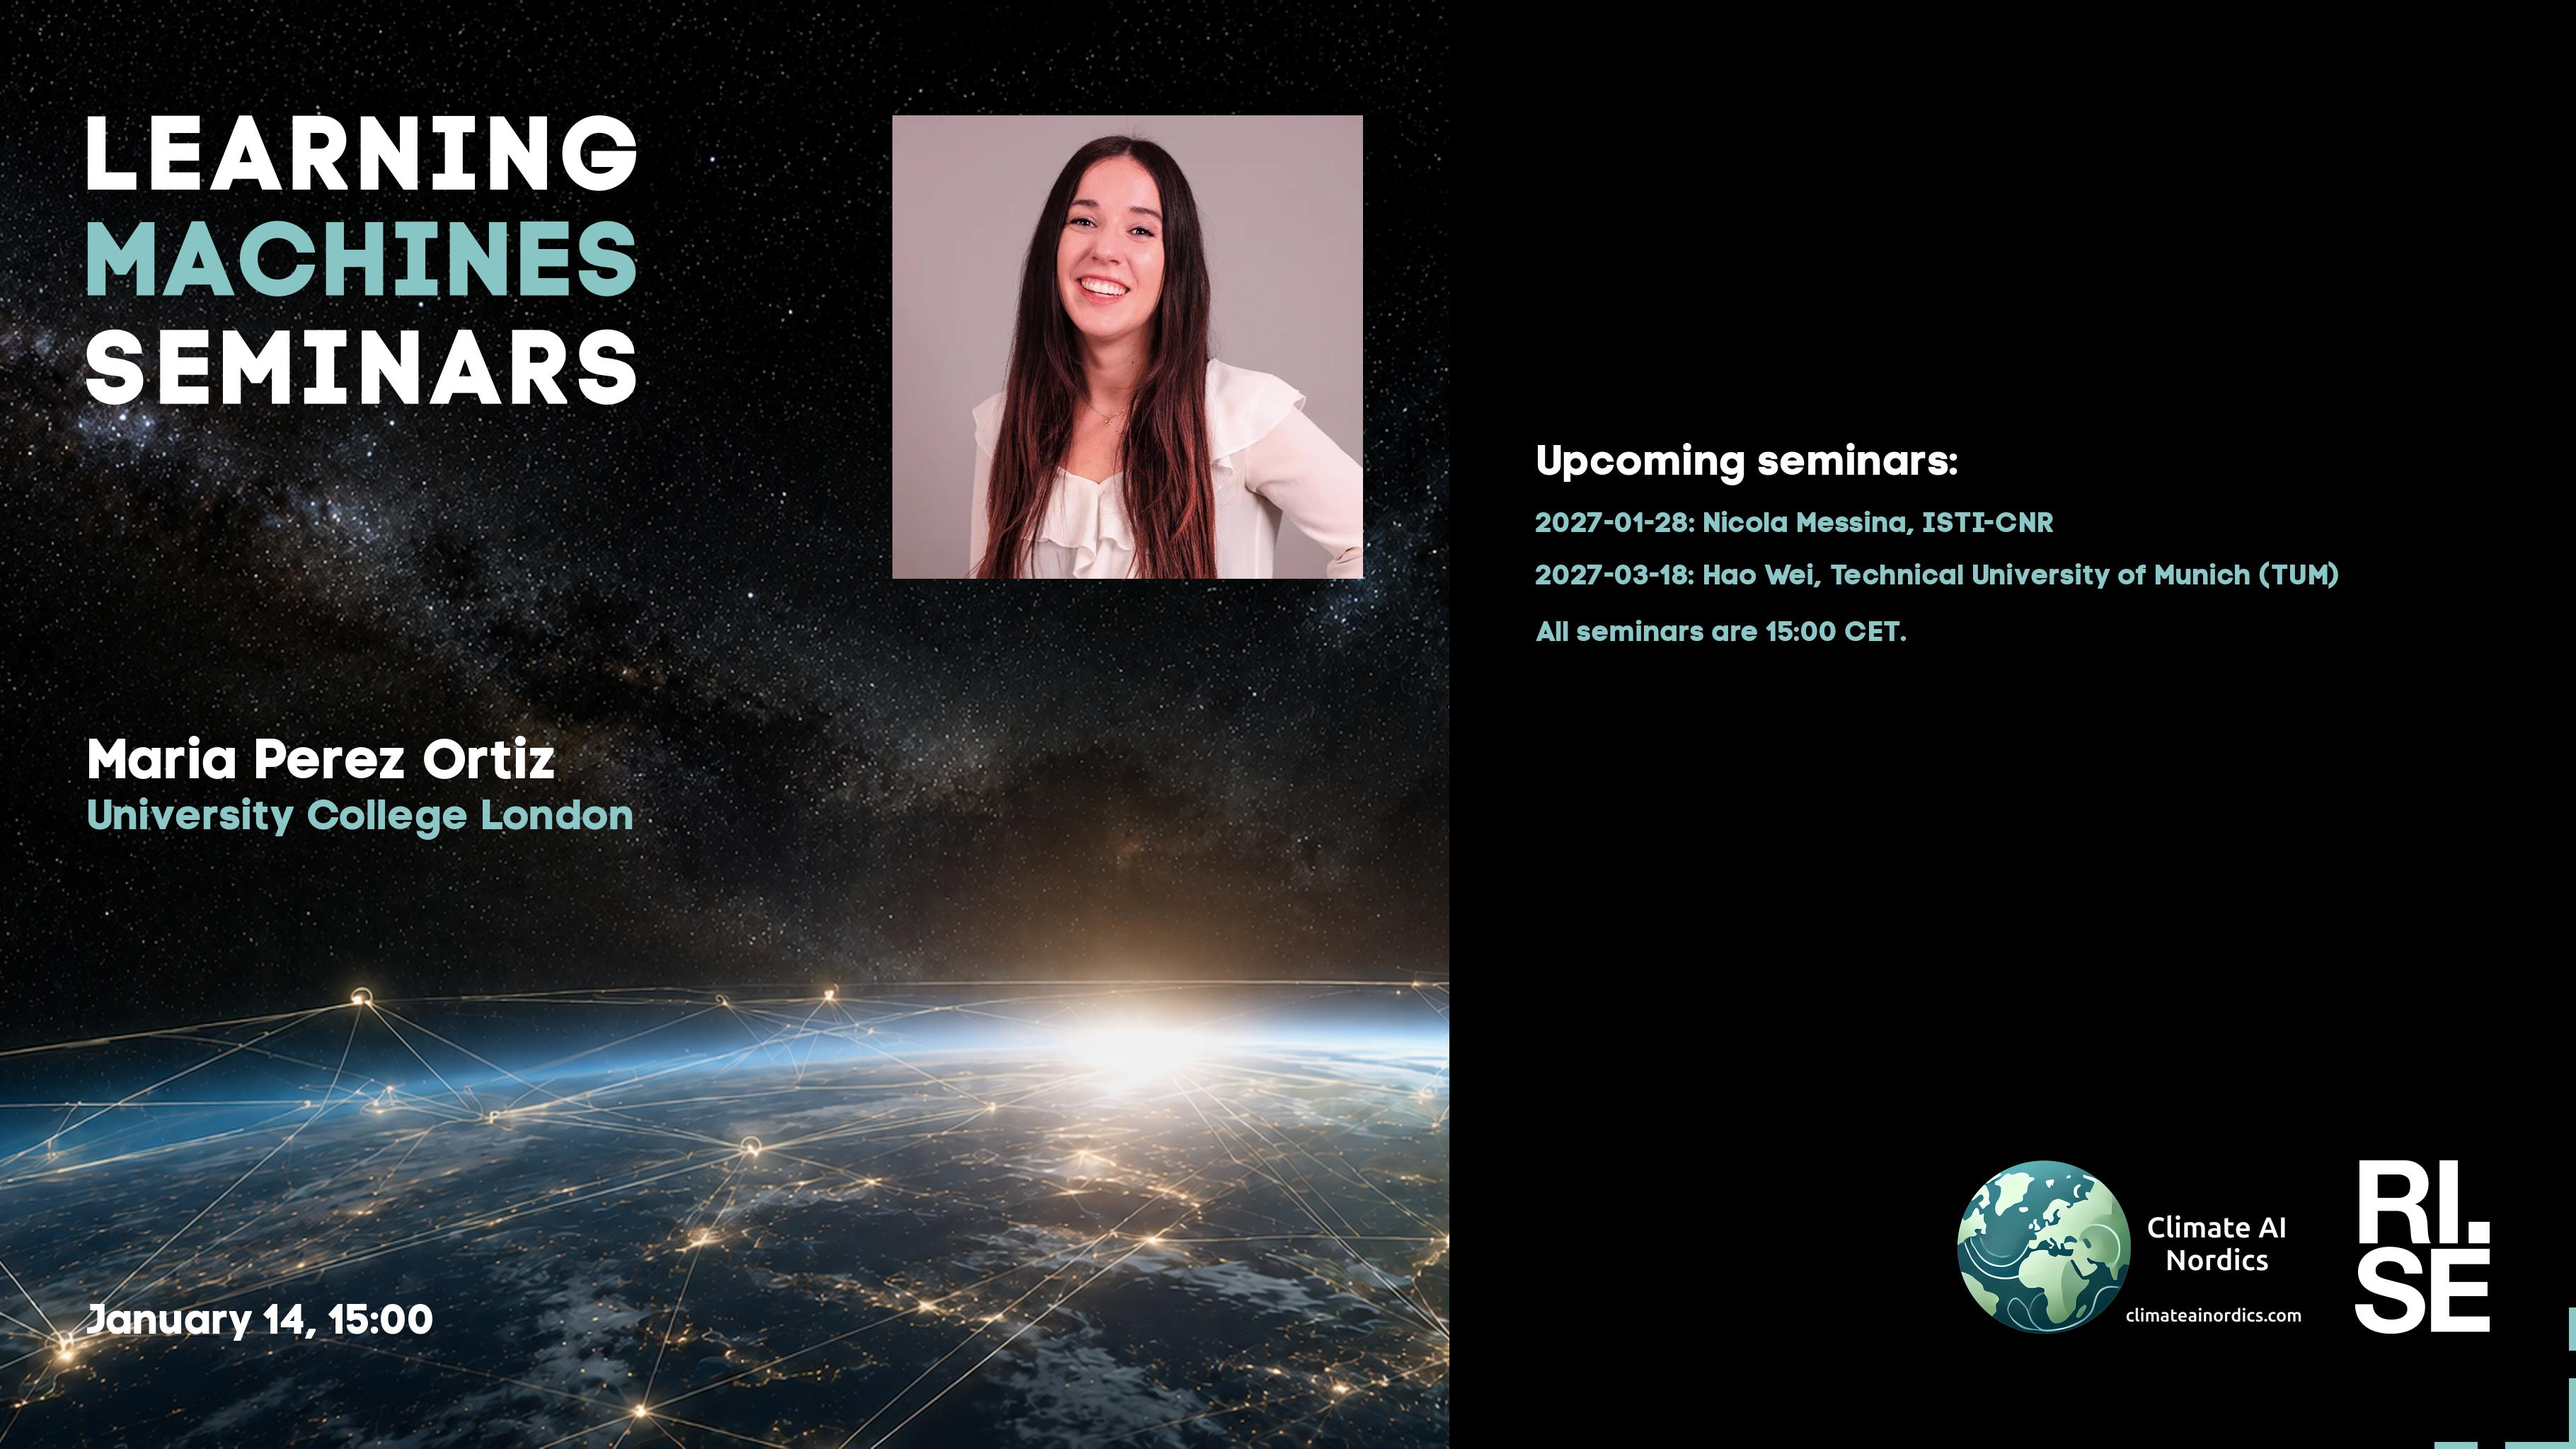
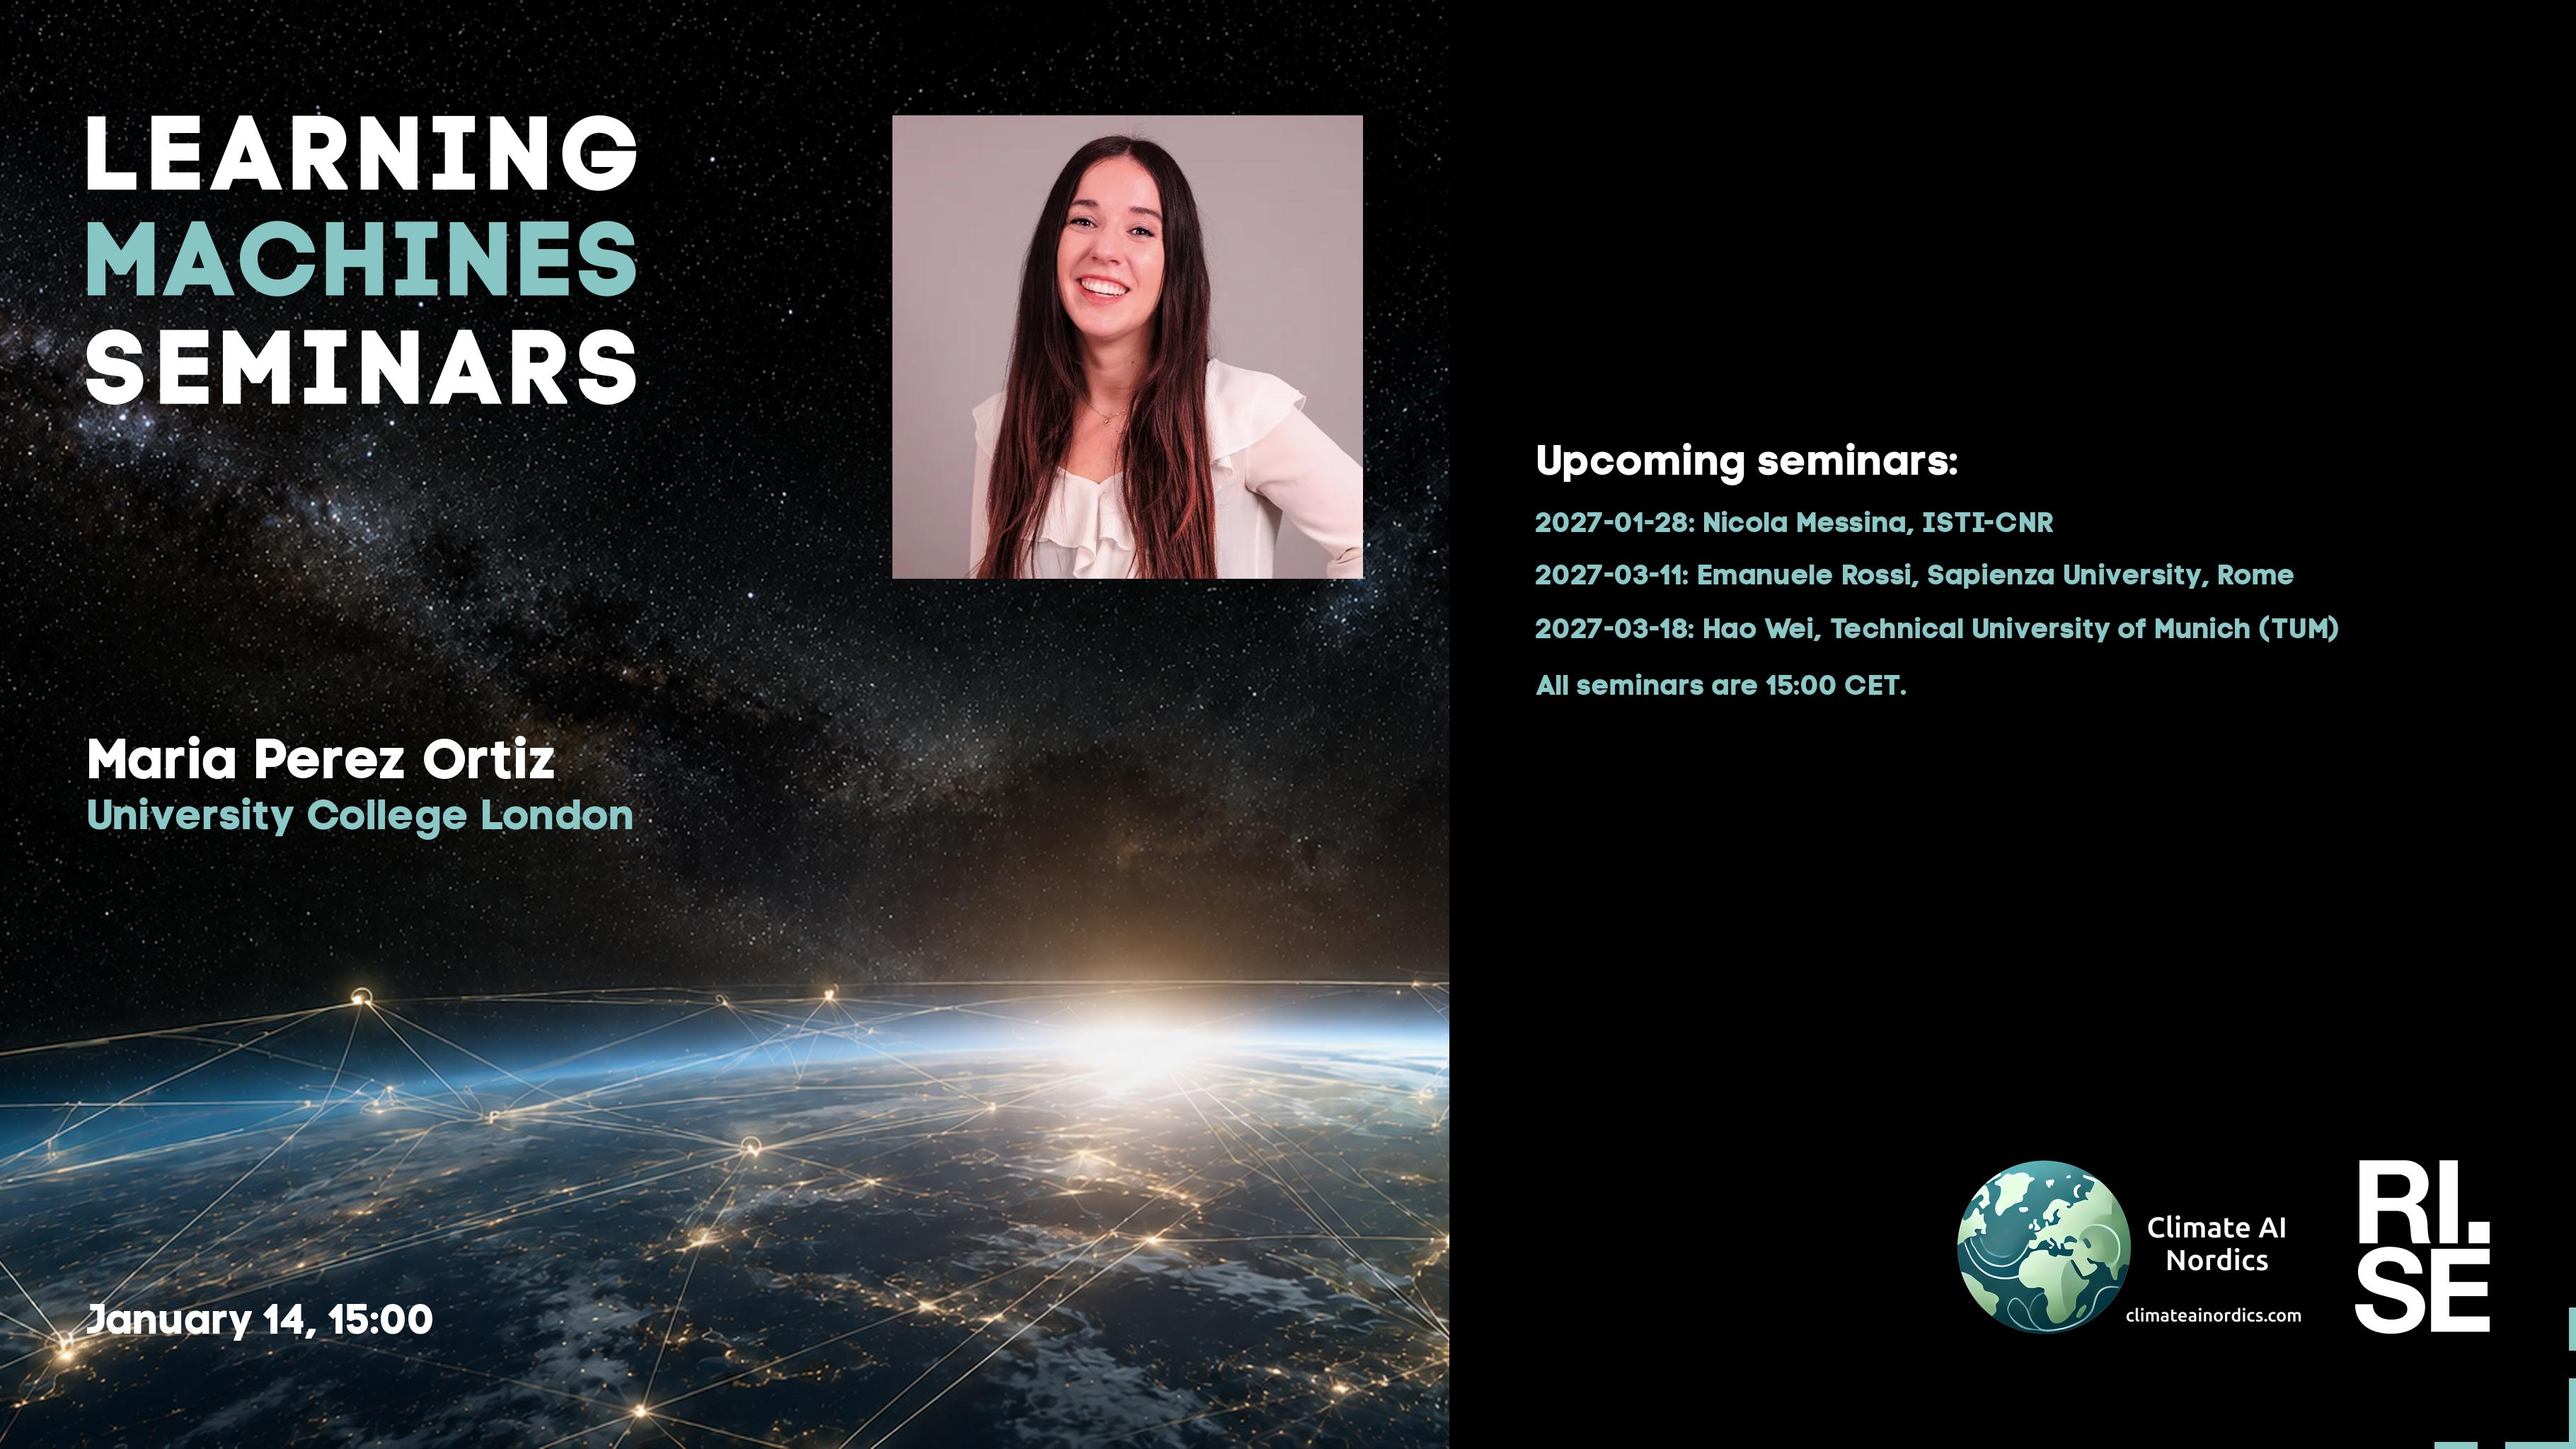
Updated plan on web site.

Changed region(s): [[0.5898, 0.375, 0.9003, 0.5]]

diff --git a/lm/2027-01-28.md b/lm/2027-01-28.md
@@ -22,6 +22,7 @@ Welcome to this week's Learning Machines seminar.
 
 **Upcoming seminars:**
 
+* 2027-03-11: Emanuele Rossi, Sapienza University, Rome
 * 2027-03-18: Hao Wei, Technical University of Munich (TUM)
 * All seminars are 15:00 CET.
 
@@ -29,5 +30,5 @@ More information and coming seminars: [https://learningmachines.se](https://lear
 
 -- The Learning Machines Team
 
-**Zoom link:** [N/A](N/A)
+**Zoom link:** [https://rise.zoom.us/j/62207309827?pwd=1C09em4rQYXW7ZtmP7YiFhS13Ji3OB.1](https://rise.zoom.us/j/62207309827?pwd=1C09em4rQYXW7ZtmP7YiFhS13Ji3OB.1)
 

diff --git a/lm/2027-01-14.md b/lm/2027-01-14.md
@@ -25,10 +25,11 @@ This seminar is a collaboration between RISE and Climate AI Nordics -- [climatea
 **Upcoming seminars:**
 
 * 2027-01-28: Nicola Messina, ISTI-CNR
+* 2027-03-11: Emanuele Rossi, Sapienza University, Rome
 * 2027-03-18: Hao Wei, Technical University of Munich (TUM)
 * All seminars are 15:00 CET.
 
-More information and coming seminars: [https://ri.se/lm-sem](https://ri.se/lm-sem)
+More information and coming seminars: [https://learningmachines.se](https://learningmachines.se)
 
 -- The Learning Machines Team
 
